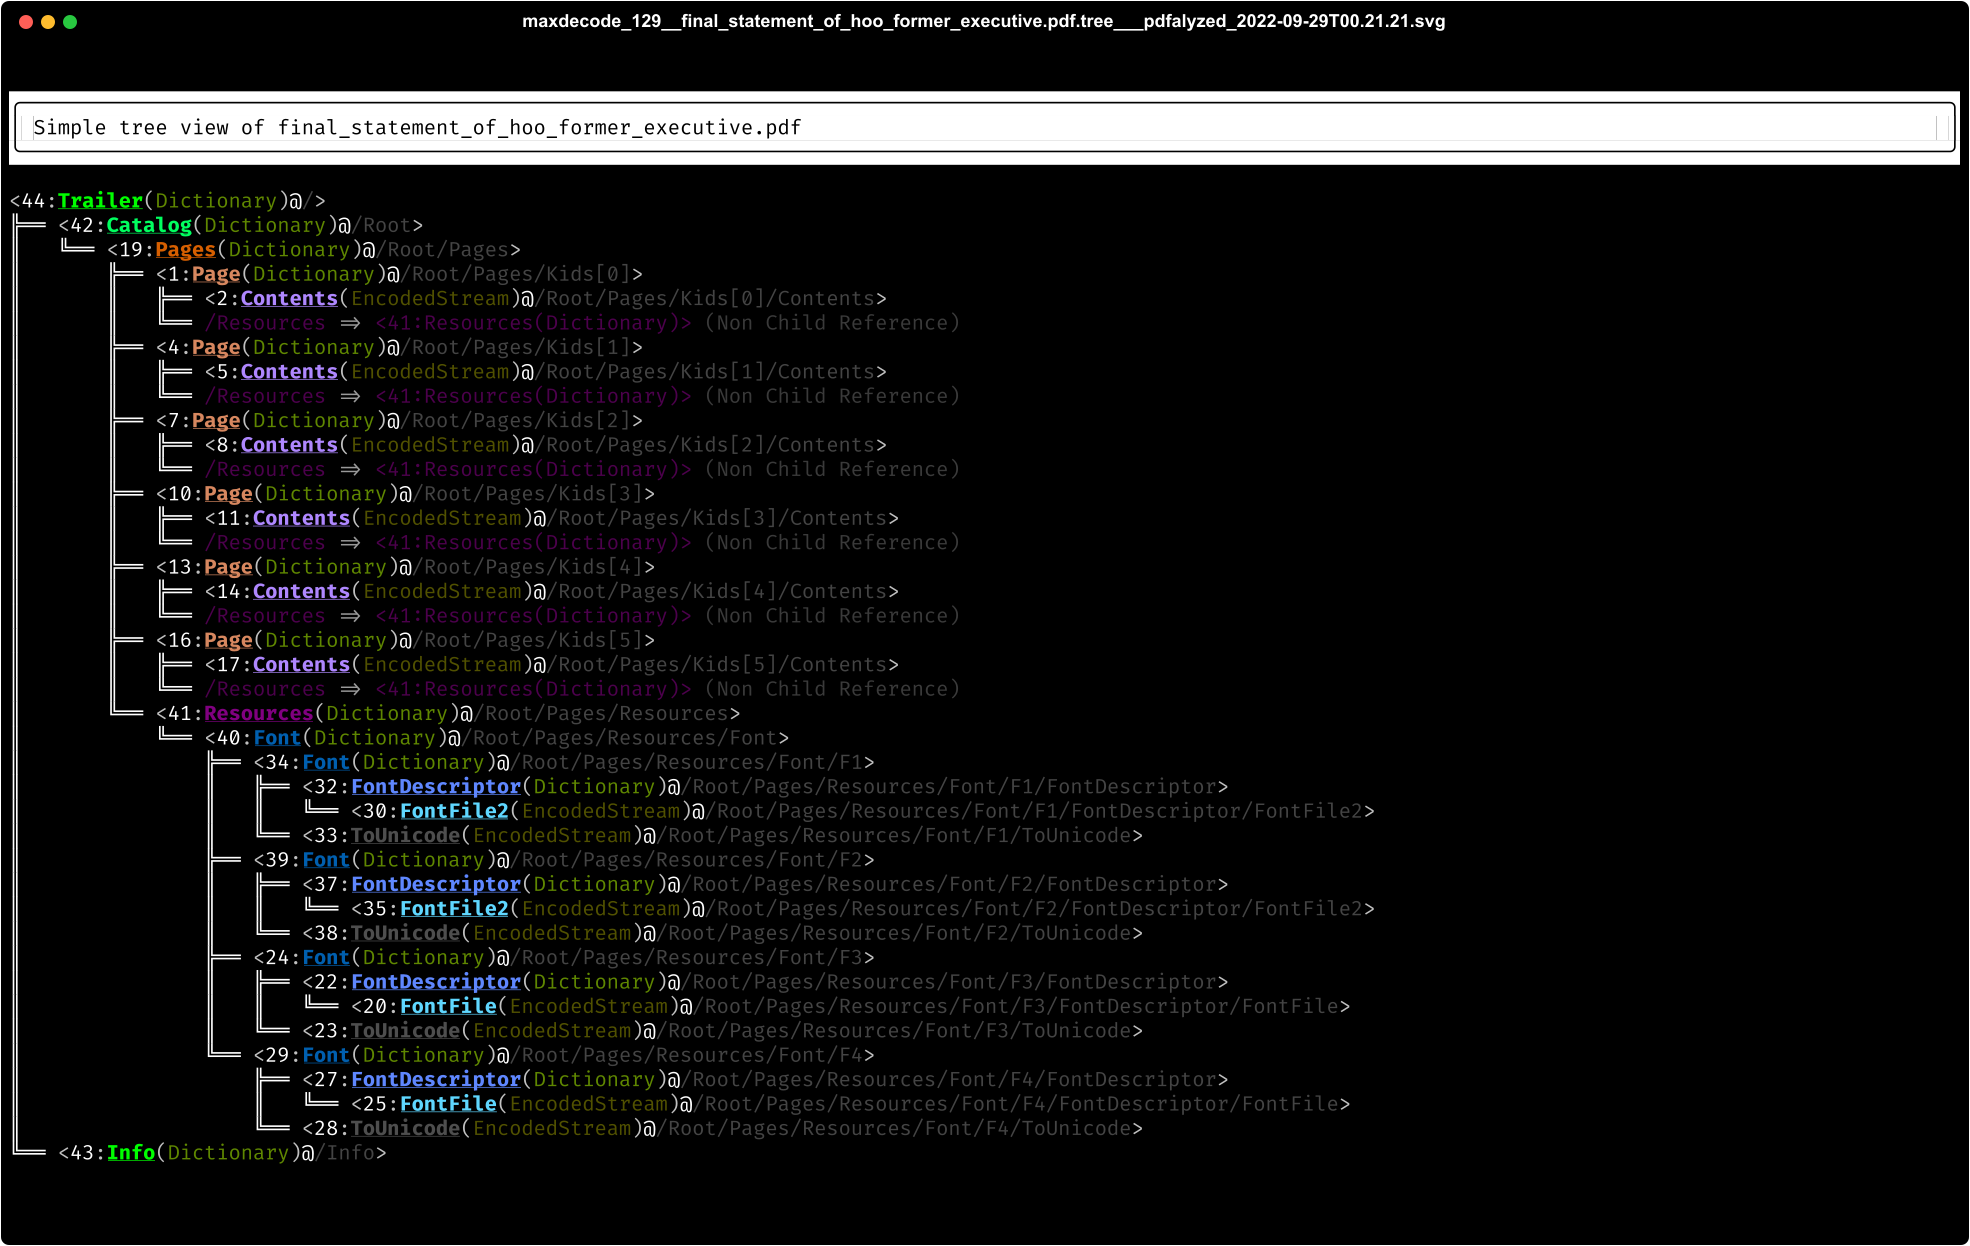
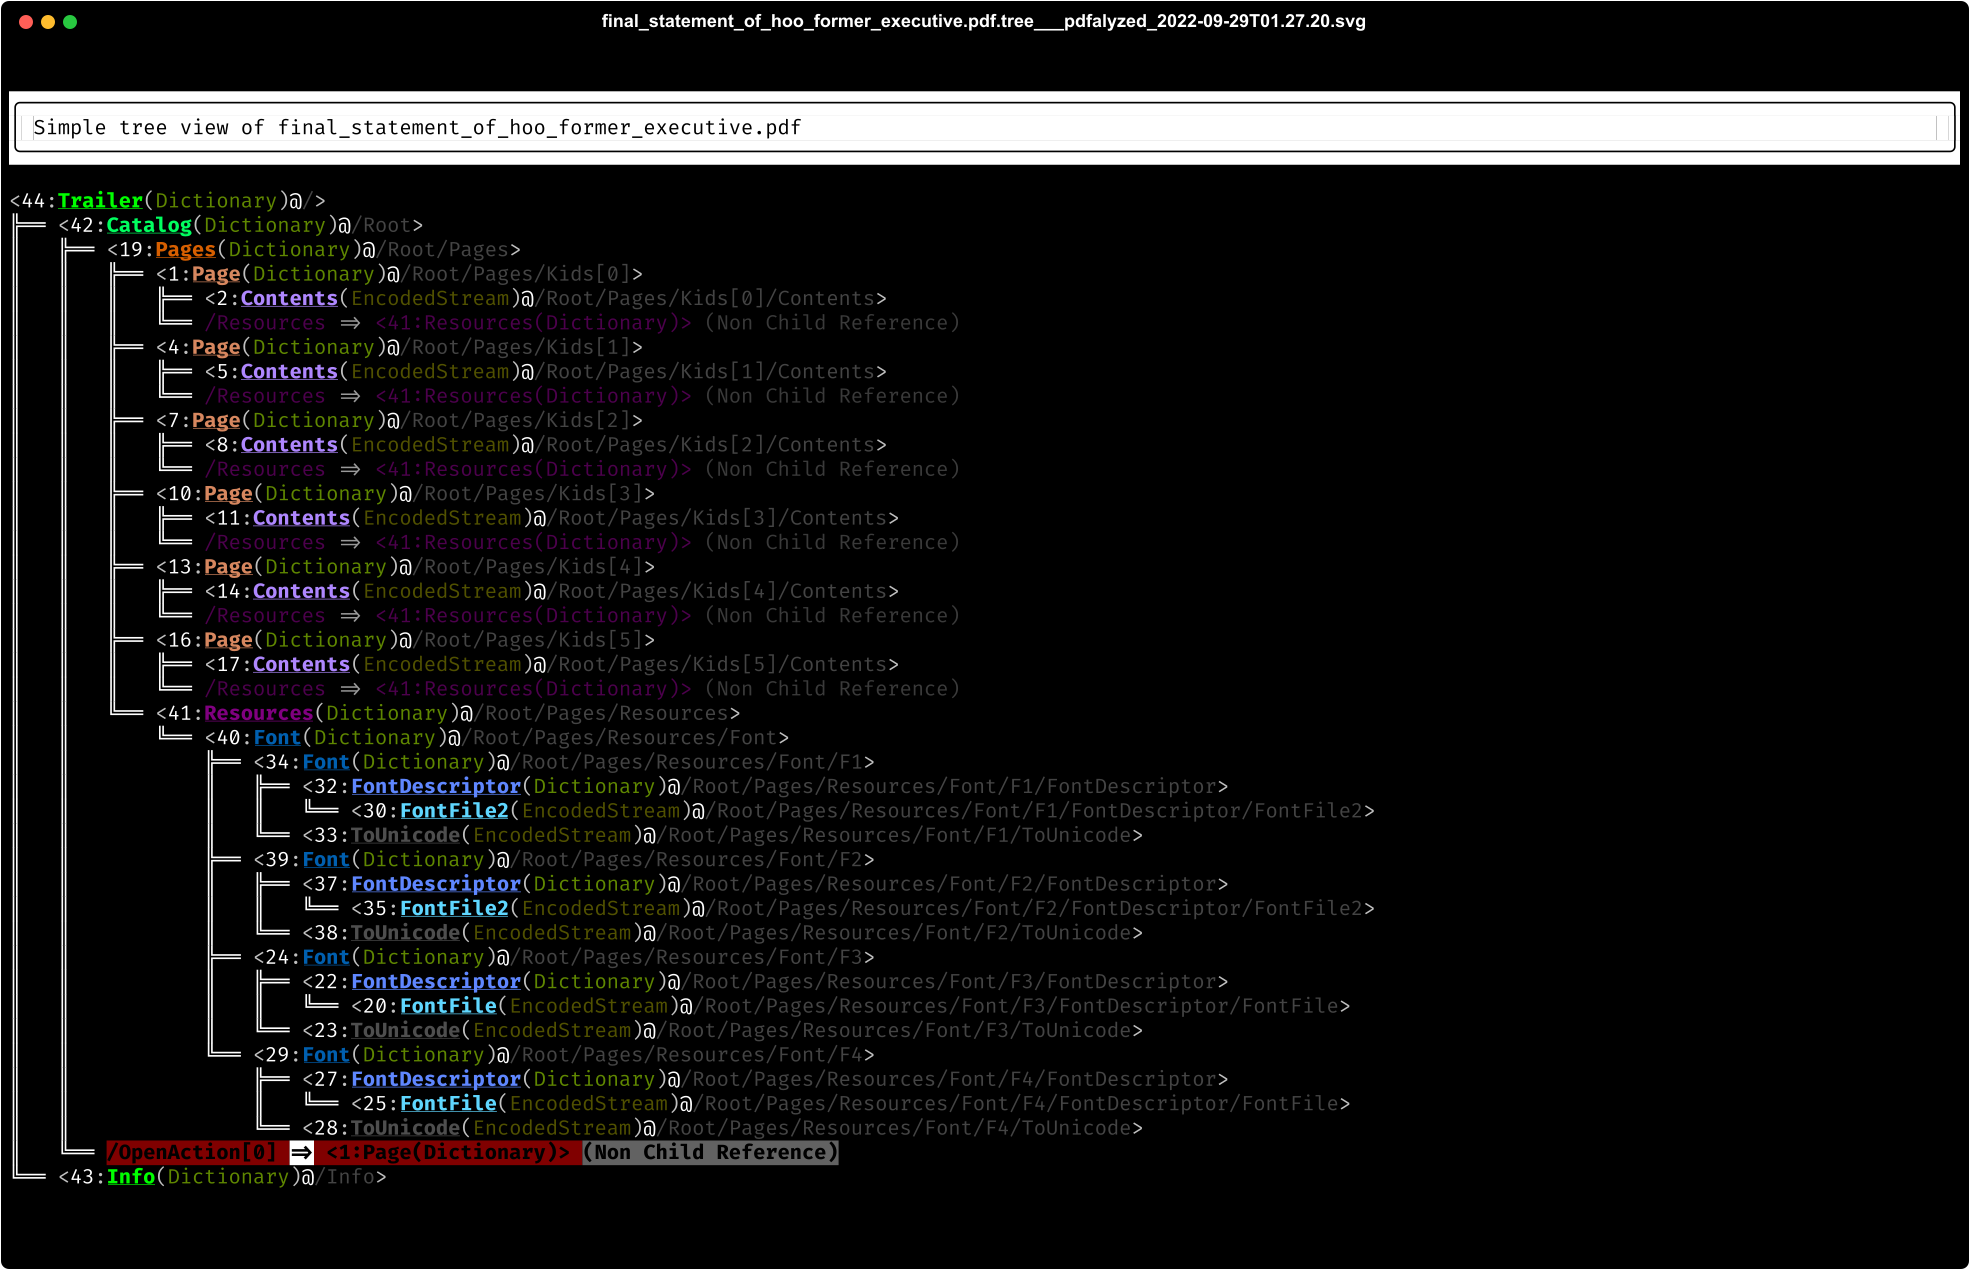
update image, fix issue with openaction highlightings

Changed region(s): [[0.0, 0.061, 0.9909, 0.9454], [0.2787, 0.0, 0.7431, 0.0305]]

diff --git a/lib/util/adobe_strings.py b/lib/util/adobe_strings.py
@@ -67,6 +67,7 @@ DANGEROUS_PDF_KEYS = [
 
 # Some references are never part of a parent/child relationship in the tree
 NON_TREE_REFERENCES = [
+    OPEN_ACTION,
     D,
     FIRST,
     LAST,
